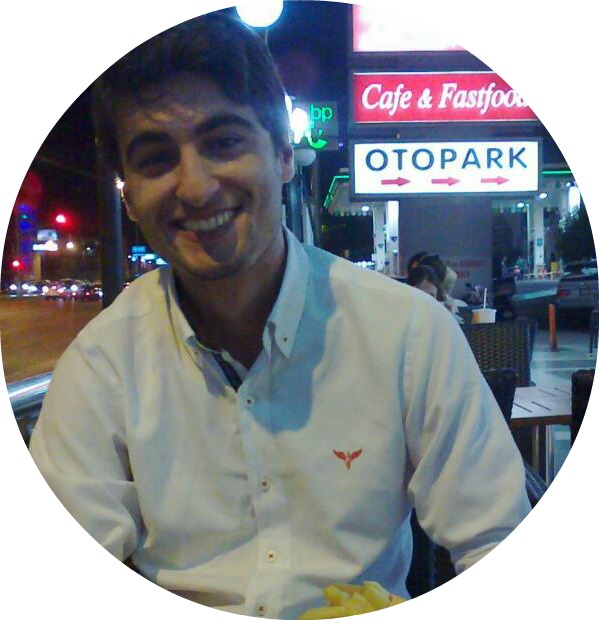
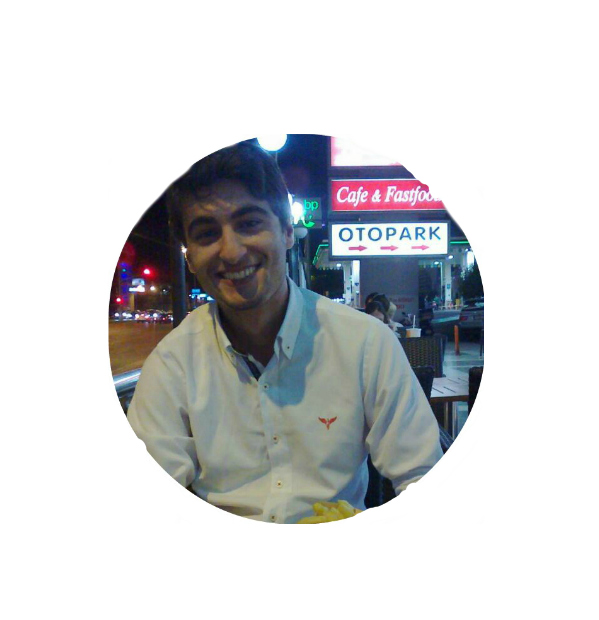
...

diff --git a/portfolio/index.html b/portfolio/index.html
@@ -16,7 +16,7 @@ layout: default
 	<body>
 		<div class="container" style="margin:0;padding:0;width:100%;">
 			<header>
-				<img width="190" height="190" src="images/me2.png">
+				<img width="190" height="190" src="images/me2.jpg">
 				<h1>Yasin Toy</h1>
 				<p>A student major in Python & Mobile,<br>
 					focus on data science, recommendation systems and mobile apps.</p>
